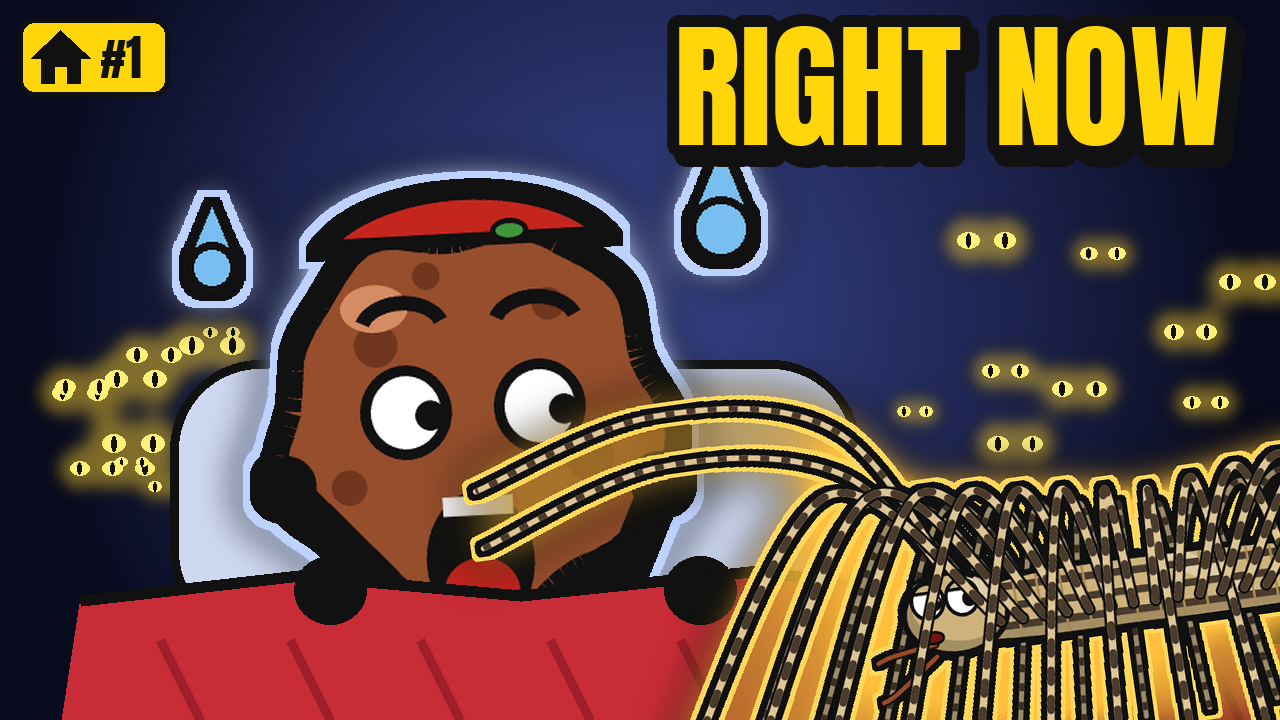
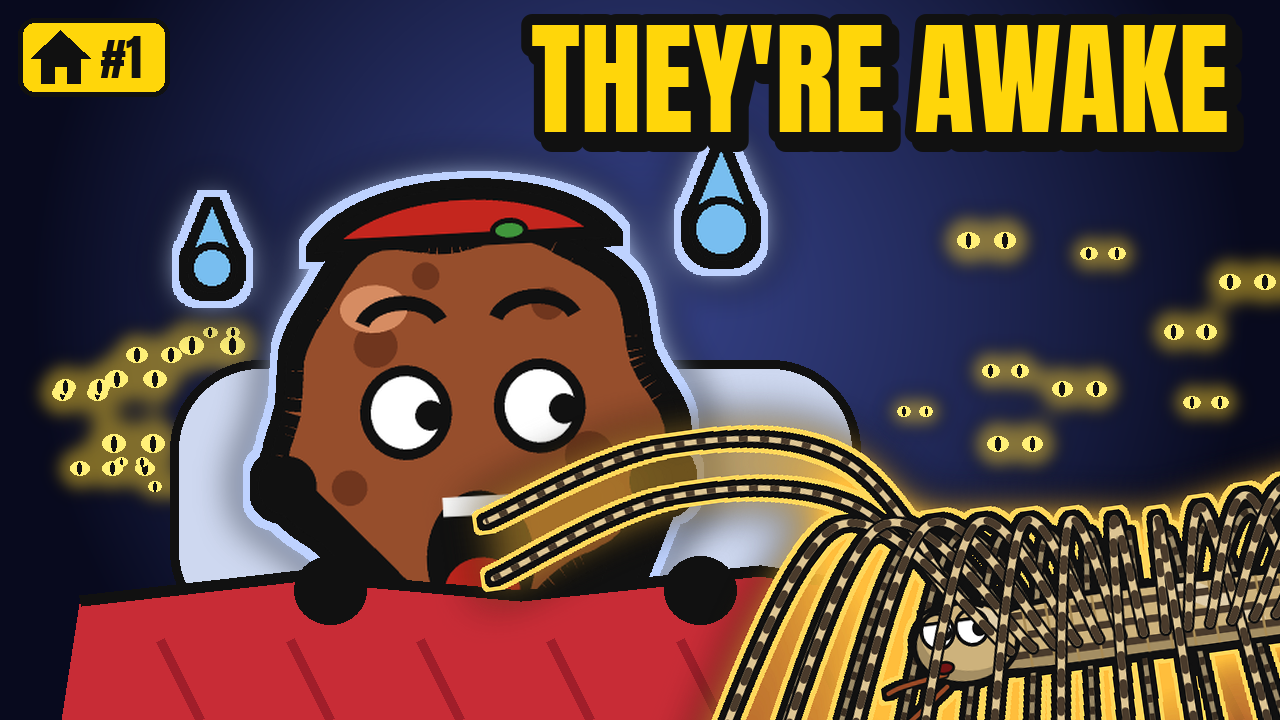
Thumbnails v3: House #2 concepts, Shorts cover template, no title words in thumbnail text
Claude-Session: https://claude.ai/code/session_01B6g5mJGtBmh6CLoEx3Vyyw

Changed region(s): [[0.3438, 0.4889, 1.0, 1.0], [0.4062, 0.0, 0.9688, 0.2444]]

diff --git a/skills/oh-meatball/tools/thumb_v3.py b/skills/oh-meatball/tools/thumb_v3.py
@@ -324,7 +324,7 @@ def eyes_in_dark(cv, n=24, keep_out=(330, 950), y0=230, seed=9):
 
 
 def t1b():
-    """RIGHT NOW: Meatball in bed at night, blanket to his chin, a house centipede crawling over the blanket at
+    """THEY'RE AWAKE: Meatball in bed at night, blanket to his chin, a house centipede crawling over the blanket at
     him and dozens of glowing eyes in the dark."""
     cv = night_bg()
     eyes_in_dark(cv, 22, (250, 900))
@@ -346,8 +346,8 @@ def t1b():
                                      "bite": 0.0}, 0.62, 2600, 1300, 1300, 1000)
     cent = cent.transpose(Image.FLIP_LEFT_RIGHT)
     cent = pop(cent, 3, 4, (255, 214, 90), 22, (255, 190, 60)).rotate(8, expand=True, resample=Image.BICUBIC)
-    cv.alpha_composite(cent, (400, 175))
-    words(cv, "RIGHT NOW", 1260, -6, 170, YEL, anchor="ra", max_w=560)
+    cv.alpha_composite(cent, (410, 205))
+    words(cv, "THEY'RE AWAKE", 1260, -6, 160, YEL, anchor="ra", max_w=720)
     badge(cv, "#1", 18, 18)
     return cv
 
@@ -403,7 +403,7 @@ def t1c():
 
 
 def t1d():
-    """6 HIDING: the house cut open like a doll's house, six creatures in six rooms, a red arrow in."""
+    """WHERE?!: the house cut open like a doll's house, six creatures in six rooms, a red arrow in."""
     cv = night_bg()
     d = ImageDraw.Draw(cv)
     x0, x1, yt, yb = 330, 1250, 240, 712
@@ -429,9 +429,201 @@ def t1d():
     mb = pop(fit(meatball("shock", 1000, look=(18, -4), head=0.46, sweat=False), h=380), 7, 7, WHITE, 18)
     cv.alpha_composite(mb, (-20, H - mb.height + 30))
     arrow(cv, (250, 150), (420, 300))
-    words(cv, "6 HIDING", 18, -6, 150, YEL, max_w=480)
+    words(cv, "WHERE?!", 18, -6, 170, YEL, max_w=480)
     badge(cv, "#1", 1100, 18, 62)
     return cv
+
+
+# ------------------------------------------------------------------ target 2: "6 More Creatures Living In Your House"
+# Same kit as #1 (yellow Anton words, horrified Meatball head bottom-left, glowing outlined creature, house badge).
+
+def bug_cfg(name, **kw):
+    cfg = dict(SPECIES[name])
+    cfg.update(kw)
+    return cfg
+
+
+def sheet_bg(w=W, h=H):
+    """Bed sheet at night: pale blue cotton with folds, dark at the edges."""
+    bg = radial(w, h, (176, 196, 236), (22, 28, 70), cx=0.62, cy=0.55, r=0.9)
+    d = ImageDraw.Draw(bg)
+    for k in range(7):
+        y = 120 + k * 100
+        d.arc([-200, y - 60, w + 200, y + 120], 190, 350, fill=(140, 160, 210), width=6)
+    return bg.filter(ImageFilter.GaussianBlur(1.5))
+
+
+def blood_drop(cv, x, y, r):
+    d = ImageDraw.Draw(cv)
+    d.polygon([(x, y - 2.3 * r), (x - r, y), (x + r, y)], fill=(214, 20, 30), outline=INK, width=6)
+    d.ellipse([x - r, y - r * 0.9, x + r, y + r * 1.1], fill=(214, 20, 30), outline=INK, width=6)
+    d.polygon([(x, y - 2.1 * r), (x - r + 5, y), (x + r - 5, y)], fill=(214, 20, 30))
+    d.ellipse([x - r * 0.45, y - r * 0.5, x - r * 0.1, y - r * 0.05], fill=(255, 150, 150))
+
+
+def t2a():
+    """WHILE YOU SLEEP: a fat blood-full bed bug on your sheet, grinning, a drop of blood at its mouth."""
+    cv = sheet_bg()
+    cfg = bug_cfg("bed_bug", color="#b0301e", length=560, height=330, leg_len=70, head_r=0.38, eye_r=50,
+                  teeth=True, fangs=True, mood="smug", mouth="grin", stripes=6, sheen=True)
+    bug = actor(sp(cfg), {"look": (-0.4, 0.4), "talk": 0.7}, 1.25, 2000, 1100, 1000, 900)
+    bug = pop(bug.transpose(Image.FLIP_LEFT_RIGHT), 9, 9, (255, 236, 200), 36, (255, 120, 90))
+    paste_c(cv, bug, 860, 430, -4)
+    blood_drop(cv, 520, 590, 30)
+    blood_drop(cv, 590, 660, 20)
+    vignette(cv, 0.25)
+    mb = pop(fit(meatball("shock", 1000, look=(16, 2), head=0.46), h=420), 7, 7, WHITE, 18)
+    cv.alpha_composite(mb, (-20, H - mb.height + 30))
+    words(cv, "WHILE YOU SLEEP", 22, -6, 140, YEL, max_w=800)
+    badge(cv, "#2", 1120, 18)
+    return cv
+
+
+def tiles_bg(w=W, h=H):
+    bg = Image.new("RGBA", (w, h), (0, 0, 0, 255))
+    d = ImageDraw.Draw(bg)
+    s = 120
+    for i in range(-1, w // s + 2):
+        for j in range(-1, h // s + 2):
+            c = (34, 98, 104) if (i + j) % 2 else (22, 70, 78)
+            d.rectangle([i * s, j * s, i * s + s - 4, j * s + s - 4], fill=c)
+    v = radial(w, h, (255, 255, 255), (40, 40, 40), cx=0.6, cy=0.55, r=0.85).convert("RGB")
+    return Image.fromarray((np.array(bg.convert("RGB"), np.float32) * np.array(v, np.float32) / 255).astype(
+        np.uint8)).convert("RGBA")
+
+
+def split_actor(fn, p, scale, xu, w=2400, h=1300, ox=1200, oy=1050):
+    """Render an actor and cut it in two at drawing x = xu: (left part, right part), each cropped."""
+    s = cairo.ImageSurface(cairo.FORMAT_ARGB32, w, h)
+    c = cairo.Context(s)
+    c.translate(ox, oy)
+    c.scale(scale, scale)
+    fn(c, 0.3, dict({"phase": 0.0, "walking": False, "blink": 0}, **p))
+    s.flush()
+    im = Image.frombuffer("RGBA", (w, h), bytes(s.get_data()), "raw", "BGRa", 0, 1)
+    cut = int(ox + xu * scale)
+    left, right = im.crop((0, 0, cut, h)), im.crop((cut, 0, w, h))
+    return left.crop(left.getbbox()), right.crop(right.getbbox())
+
+
+def t2b():
+    """NO HEAD?!: a cockroach still walking with its head gone; the head lies beside it, still blinking."""
+    cv = tiles_bg()
+    cfg = bug_cfg("roach", head_r=0.6, eye_r=32, mood="shock", mouth="o", ant=0)
+    fn = sp(cfg)
+    body, _ = split_actor(fn, {"walking": True, "phase": 1.2}, 0.95, 140)
+    _, head = split_actor(fn, {"look": (-0.8, -0.3)}, 1.0, 150)
+    body = pop(body, 9, 9, (255, 214, 90), 34, (255, 190, 60))
+    head = pop(head, 9, 9, (255, 214, 90), 30, (255, 190, 60))
+    paste_c(cv, body, 700, 420)
+    ring(cv, 700 + body.width / 2 - 115, 420 + 25, 70)   # the empty neck
+    paste_c(cv, head, 1060, 540, -30)
+    d = ImageDraw.Draw(cv)
+    for k in range(3):   # shock marks around the head
+        a = -2.2 + k * 0.55
+        x, y = 1040 + 160 * math.cos(a), 520 + 160 * math.sin(a)
+        d.line([(x, y), (x + 34 * math.cos(a), y + 34 * math.sin(a))], fill=INK, width=18)
+        d.line([(x, y), (x + 34 * math.cos(a), y + 34 * math.sin(a))], fill=WHITE, width=9)
+    mb = pop(fit(meatball("shock", 1000, look=(18, 6), head=0.46), h=420), 7, 7, WHITE, 18)
+    cv.alpha_composite(mb, (-20, H - mb.height + 30))
+    words(cv, "NO HEAD?!", 22, -6, 190, YEL, max_w=640)
+    badge(cv, "#2", 1120, 18)
+    return cv
+
+
+def _earwig_pincers(c, t, p):
+    cfg = p["cfg"]
+    creature(c, t, p)
+    H_, ll, L = cfg["height"], cfg["leg_len"], cfg["length"]
+    by = -H_ * 0.55 - ll * 0.45 + 3 * math.sin(t * 2.4)
+    x0 = -L * 0.5
+    for s in (-1, 1):
+        pts = [(x0 + 20, by + s * H_ * 0.18), (x0 - 140, by + s * 70), (x0 - 260, by + s * 20)]
+        B.stroke(c, pts, 40, smooth=True)
+        B.stroke(c, pts, 24, smooth=True, color=B.hexc("#4a2414"))
+
+
+def t2c():
+    """YOUR EAR?!: an earwig, pincers up, marching at Meatball's head; red arrow from bug to his ear."""
+    cv = night_bg()
+    eyes_in_dark(cv, 12, (0, 760), 260, seed=4)
+    cfg = bug_cfg("earwig", tails=0, head_r=0.75, eye_r=34, mood="angry", mouth="grin", teeth=True, length=620,
+                  height=140)
+    bug = actor(lambda c, t, p: _earwig_pincers(c, t, dict(p, cfg=cfg)), {"look": (-1, 0), "talk": 0.6,
+                                                                          "walking": True, "phase": 0.6},
+                0.8, 2600, 1100, 1300, 900)
+    bug = pop(bug.transpose(Image.FLIP_LEFT_RIGHT), 9, 9, (255, 214, 90), 34, (255, 170, 60))
+    paste_c(cv, bug, 880, 440, -10)
+    mb = pop(fit(meatball("shock", 1000, look=(18, 0), head=0.46), h=470), 7, 7, WHITE, 18)
+    cv.alpha_composite(mb, (-30, H - mb.height + 30))
+    words(cv, "YOUR EAR?!", 22, -6, 190, YEL, max_w=700)
+    badge(cv, "#2", 1120, 18)
+    return cv
+
+
+# ------------------------------------------------------------------ target 3: Shorts cover template (1080x1920)
+# Series band up top (inside the safe area), the animal huge in the middle with its glow, 1-3 words under it,
+# horrified Meatball head bottom-left. The centre 1080x1080 alone still reads (search crops it square).
+
+SERIES = {"house": ("IN YOUR HOUSE", YEL, ((52, 64, 132), (8, 10, 30))),
+          "survive": ("WOULD MEATBALL SURVIVE?", (255, 120, 40), ((150, 62, 30), (30, 10, 6))),
+          "vs": ("MEATBALL VS", (90, 220, 120), ((30, 100, 70), (6, 24, 18)))}
+
+
+def series_band(cv, series, part, y=170):
+    label, col, _ = SERIES[series]
+    d = ImageDraw.Draw(cv)
+    f = ImageFont.truetype(ANTON, 92)
+    text = f"{label}  #{part}" if part else label
+    tw = d.textlength(text, font=f)
+    w = tw + 170
+    x = (cv.width - w) / 2
+    d.rounded_rectangle([x, y, x + w, y + 132], 30, fill=col, outline=INK, width=10)
+    hx, hy, sz = x + 70, y + 70, 34
+    if series == "house":
+        d.polygon([(hx - sz * 1.3, hy - 2), (hx, hy - sz * 1.3), (hx + sz * 1.3, hy - 2)], fill=INK)
+        d.rectangle([hx - sz * 0.9, hy - 4, hx + sz * 0.9, hy + sz], fill=INK)
+    else:
+        d.ellipse([hx - sz, hy - sz, hx + sz, hy + sz], fill=(150, 78, 44), outline=INK, width=6)
+        d.chord([hx - sz, hy - sz, hx + sz, hy + sz * 0.2], 200, 340, fill=(196, 38, 30))
+    d.text((x + 125, y + 66), text, font=f, fill=INK, anchor="lm")
+
+
+def cover(series, part, hero, text, look=(14, -10)):
+    w, h = 1080, 1920
+    inner, outer = SERIES[series][2]
+    cv = radial(w, h, inner, outer, cx=0.5, cy=0.42, r=0.8)
+    if series == "house":
+        eyes_in_dark(cv, 16, (160, 920), 360, seed=3)
+    series_band(cv, series, part)
+    paste_c(cv, fit(hero, 1150, 980), 560, 1230)
+    lines = text.split("|")
+    y = 330
+    for i, ln in enumerate(lines):
+        bx = words(cv, ln, 540, y, 230, YEL if i == len(lines) - 1 else WHITE, anchor="ma", max_w=980)
+        y = bx[3] - 40
+    mb = pop(fit(meatball("shock", 1000, look=look, head=0.46), h=400), 8, 8, WHITE, 20)
+    cv.alpha_composite(mb, (0, h - mb.height - 60))
+    return cv
+
+
+def t3a():
+    hero = actor(B.silverfish, {"mood": "smug", "look": (-0.2, 0.4), "mouth": "grin", "talk": 0.6}, 1.0,
+                 2000, 900, 1100, 700)
+    hero = pop(hero, 10, 10, (230, 240, 255), 40, (170, 210, 255)).rotate(24, expand=True, resample=Image.BICUBIC)
+    return cover("house", 9, hero, "1 YEAR|NO FOOD", look=(14, -14))
+
+
+def t3b():
+    hero = actor(cellar_spider, {"mood": "angry", "fangs": 1.0, "look": (0, 0.5)}, 1.6, 1400, 1300, 700, 60)
+    return cover("vs", 1, pop(hero, 8, 8, (255, 236, 180), 36, (255, 210, 120)), "EATS|SPIDERS", look=(14, -14))
+
+
+def t3c():
+    hero = actor(sp(BADGER), {"mood": "angry", "look": (-1, 0.2), "mouth": "grin", "talk": 0.7}, 1.25,
+                 2000, 1000, 1000, 850)
+    hero = hero.transpose(Image.FLIP_LEFT_RIGHT)
+    return cover("survive", 0, pop(hero, 10, 10, (255, 220, 160), 40, (255, 150, 60)), "BAD|IDEA", look=(16, -6))
 
 
 # ------------------------------------------------------------------ preview sheets
@@ -496,7 +688,7 @@ def _wrap(text, f, w, d):
 
 T1 = "6 Creatures Living In Your House Right Now (You Never See Them)"
 T2 = "6 More Creatures Living In Your House (Bed Bugs Are Just the Start)"
-CONCEPTS = {"t1a": t1a, "t1b": t1b, "t1c": t1c, "t1d": t1d}
+CONCEPTS = {"t1a": t1a, "t1b": t1b, "t1c": t1c, "t1d": t1d, "t2a": t2a, "t2b": t2b, "t2c": t2c, "t3a": t3a, "t3b": t3b, "t3c": t3c}
 
 
 def main():
@@ -516,7 +708,7 @@ def main():
             small(im, w).save(os.path.join(a.outdir, f"{name}_{w}.png"))
         done[name] = im
         print("ok", name)
-    for group, title in (("t1", T1), ("t2", T2), ("t3", "Silverfish Can Go a Year Without Food")):
+    for group, title in (("t1", T1), ("t2", T2), ("t3", "Things Living In Your House")):
         items = [(n, im) for n, im in done.items() if n.startswith(group)]
         if items:
             sheet(items, title, os.path.join(a.outdir, f"sheet-{group}.png"))
